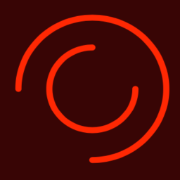
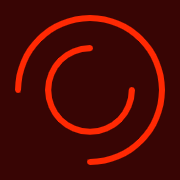
updates typography + images

diff --git a/index.html b/index.html
@@ -4,16 +4,14 @@
   <meta charset="UTF-8" />
   <meta name="viewport" content="width=device-width, initial-scale=1.0"/>
 
-  <!-- Title for browsers and search engines -->
   <title>ICAI OpenGov Lab: Artificial Intelligence for Open Government</title>
 
-  <!-- SEO: Meta Description -->
   <meta name="description" content="The ICAI OpenGov Lab develops and applies advanced AI to improve open government data, transparency, and public trust." />
 
   <!-- Open Graph / Social Sharing -->
   <meta property="og:title" content="ICAI OpenGov Lab: Artificial Intelligence for Open Government" />
   <meta property="og:description" content="The ICAI OpenGov Lab develops and applies advanced AI to improve open government data, transparency, and public trust." />
-  <meta property="og:image" content="https://opengov.nl/img/opengov-logo-light.png" />
+  <meta property="og:image" content="https://opengov.nl/img/logo.jpg" />
   <meta property="og:url" content="https://opengov.nl" />
   <meta property="og:type" content="website" />
 
@@ -21,10 +19,11 @@
   <link rel="stylesheet" href="styles.css">
   
   <!-- Favicons / App icons -->
-  <link rel="apple-touch-icon" sizes="180x180" href="/apple-touch-icon.png">
-  <link rel="icon" type="image/png" sizes="32x32" href="/favicon-32x32.png">
-  <link rel="icon" type="image/png" sizes="16x16" href="/favicon-16x16.png">
-  <link rel="manifest" href="/site.webmanifest">
+  <link rel="icon" type="image/png" href="/favicon-96x96.png" sizes="96x96" />
+  <link rel="icon" type="image/svg+xml" href="/favicon.svg" />
+  <link rel="shortcut icon" href="/favicon.ico" />
+  <link rel="apple-touch-icon" sizes="180x180" href="/apple-touch-icon.png" />
+  <link rel="manifest" href="/site.webmanifest" />
 </head>
 <body class="light-mode">
   <!-- Dark/Light theme toggle (positioned top-right by CSS) -->
@@ -32,7 +31,7 @@
   
   <header class="site-header">
     <img 
-      src="img/opengov-logo-light.png" 
+      src="img/logo.svg" 
       alt="OpenGov Lab Logo" 
       class="logo"
       id="opengov-logo"
@@ -98,17 +97,10 @@
   <script>
     const toggleBtn = document.querySelector('.mode-toggle');
     const body = document.body;
-    const logoImg = document.getElementById('opengov-logo');
 
     toggleBtn.addEventListener('click', () => {
       body.classList.toggle('light-mode');
       body.classList.toggle('dark-mode');
-      
-      if (body.classList.contains('dark-mode')) {
-        logoImg.src = 'img/opengov-logo-dark.png';
-      } else {
-        logoImg.src = 'img/opengov-logo-light.png';
-      }
     });
   </script>
 </body>

diff --git a/styles.css b/styles.css
@@ -1,4 +1,4 @@
-@import url('https://fonts.googleapis.com/css2?family=Geist&family=Geist+Mono&display=swap');
+  @import url('https://fonts.googleapis.com/css2?family=Geist+Mono:wght@500&display=swap');
 
 :root {
   --accent: #ff2903; 
@@ -14,10 +14,16 @@
   box-sizing: border-box;
 }
 
+@font-face {
+  font-family: "OpenGov Sans";
+  src: url('fonts/OpenGov-Sans-V1.woff2') format('woff2');
+}
+
 body {
-  font-family: 'Geist', sans-serif;
-  line-height: 1.4;         
-  font-size: 15px;          
+  font-family: 'Geist Mono', monospace;
+  font-weight: 500;
+  line-height: 1.5;         
+  font-size: 18px;          
 }
 
 body.light-mode {
@@ -37,7 +43,7 @@ body.dark-mode {
 
 .logo {
   width: 100%;
-  max-width: 600px;
+  max-width: 800px;
   height: auto;
   display: block;
   margin: 0 auto 2rem;
@@ -51,21 +57,21 @@ body.dark-mode {
 }
 
 h1, h2 {
-  font-family: 'Geist Mono', monospace;
+  font-family: 'OpenGov Sans', sans-serif;
   color: var(--accent);
-  margin-bottom: 0.8rem;
+  margin-bottom: 1.6rem;
 }
 
 h1 {
-  font-size: 2.2rem;   
+  font-size: 2.6rem;   
   margin-top: 0;
-  line-height: 1.2;
+  line-height: 1.3;
 }
 
 h2 {
-  font-size: 1.6rem;
-  margin-top: 2.5rem;
-  line-height: 1.3;
+  font-size: 2.2rem;
+  margin-top: 3.6rem;
+  line-height: 1.5;
 }
 
 p {
